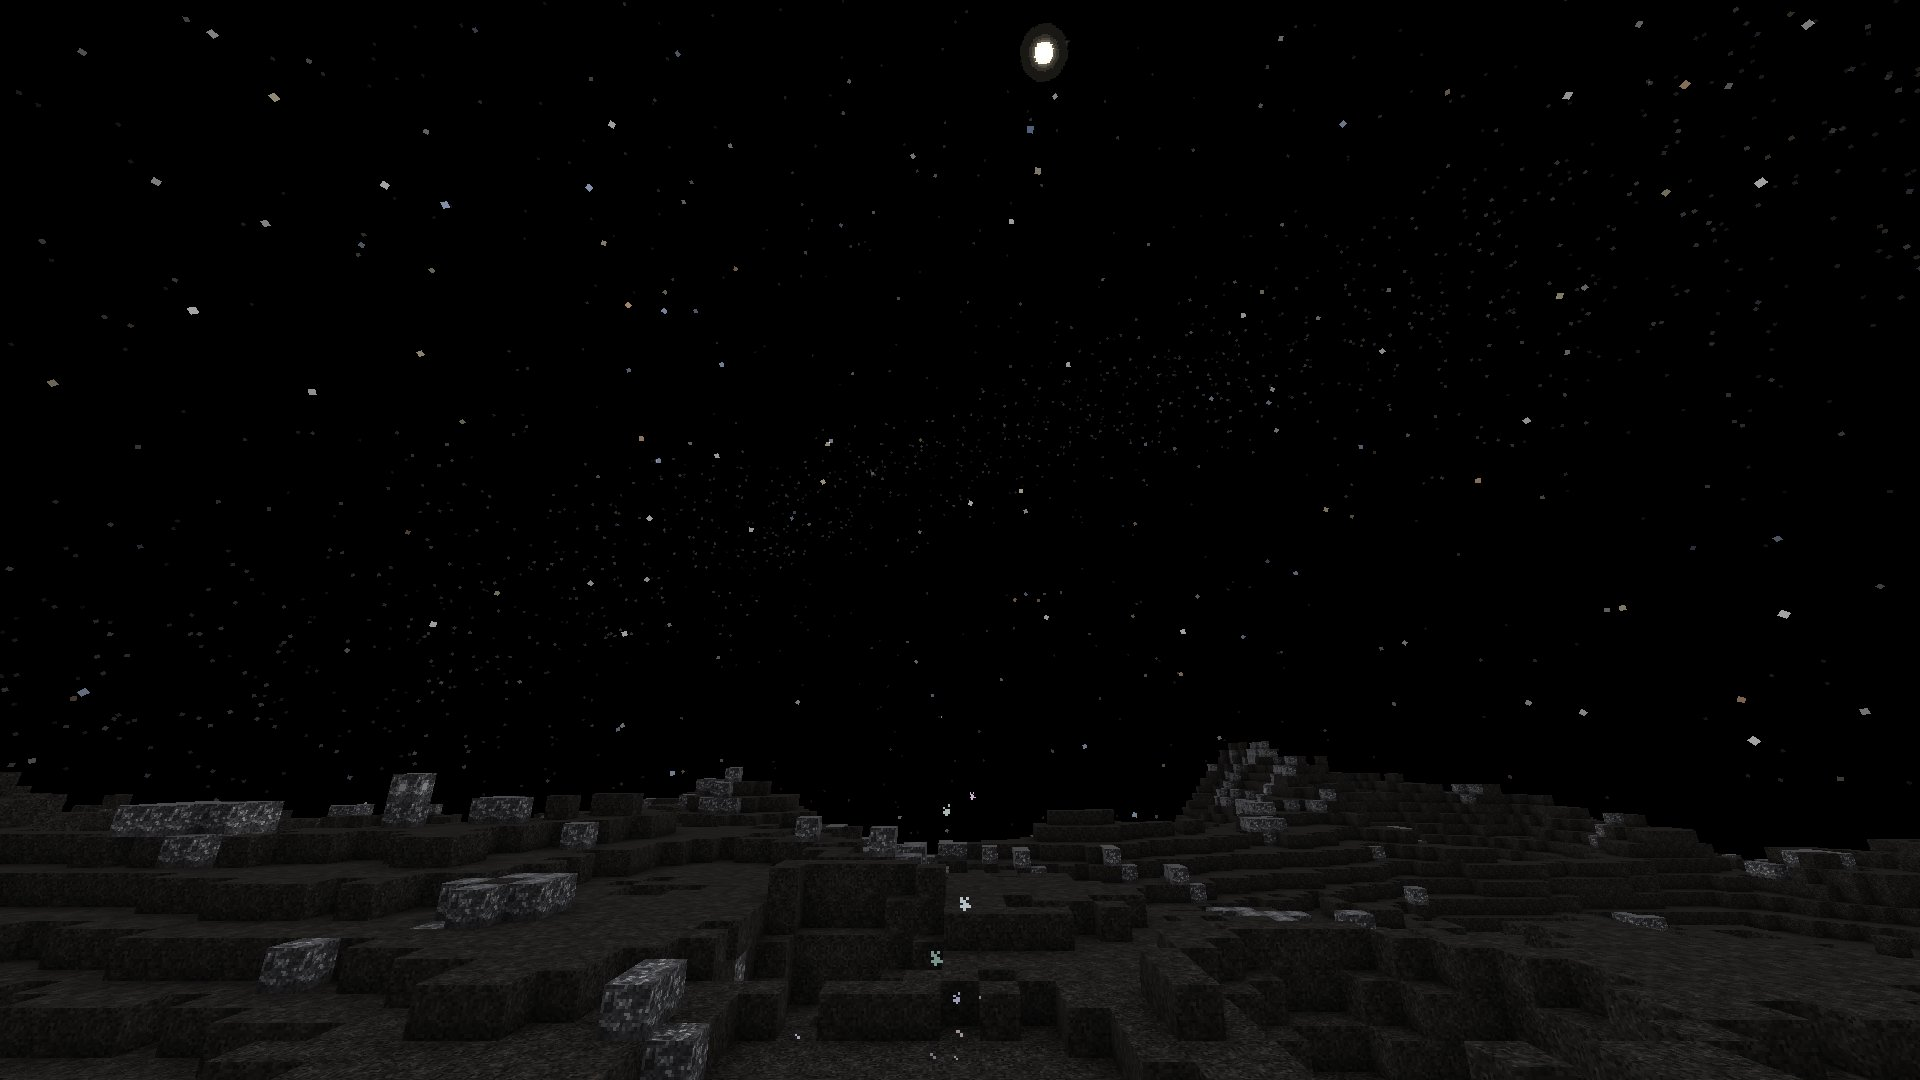
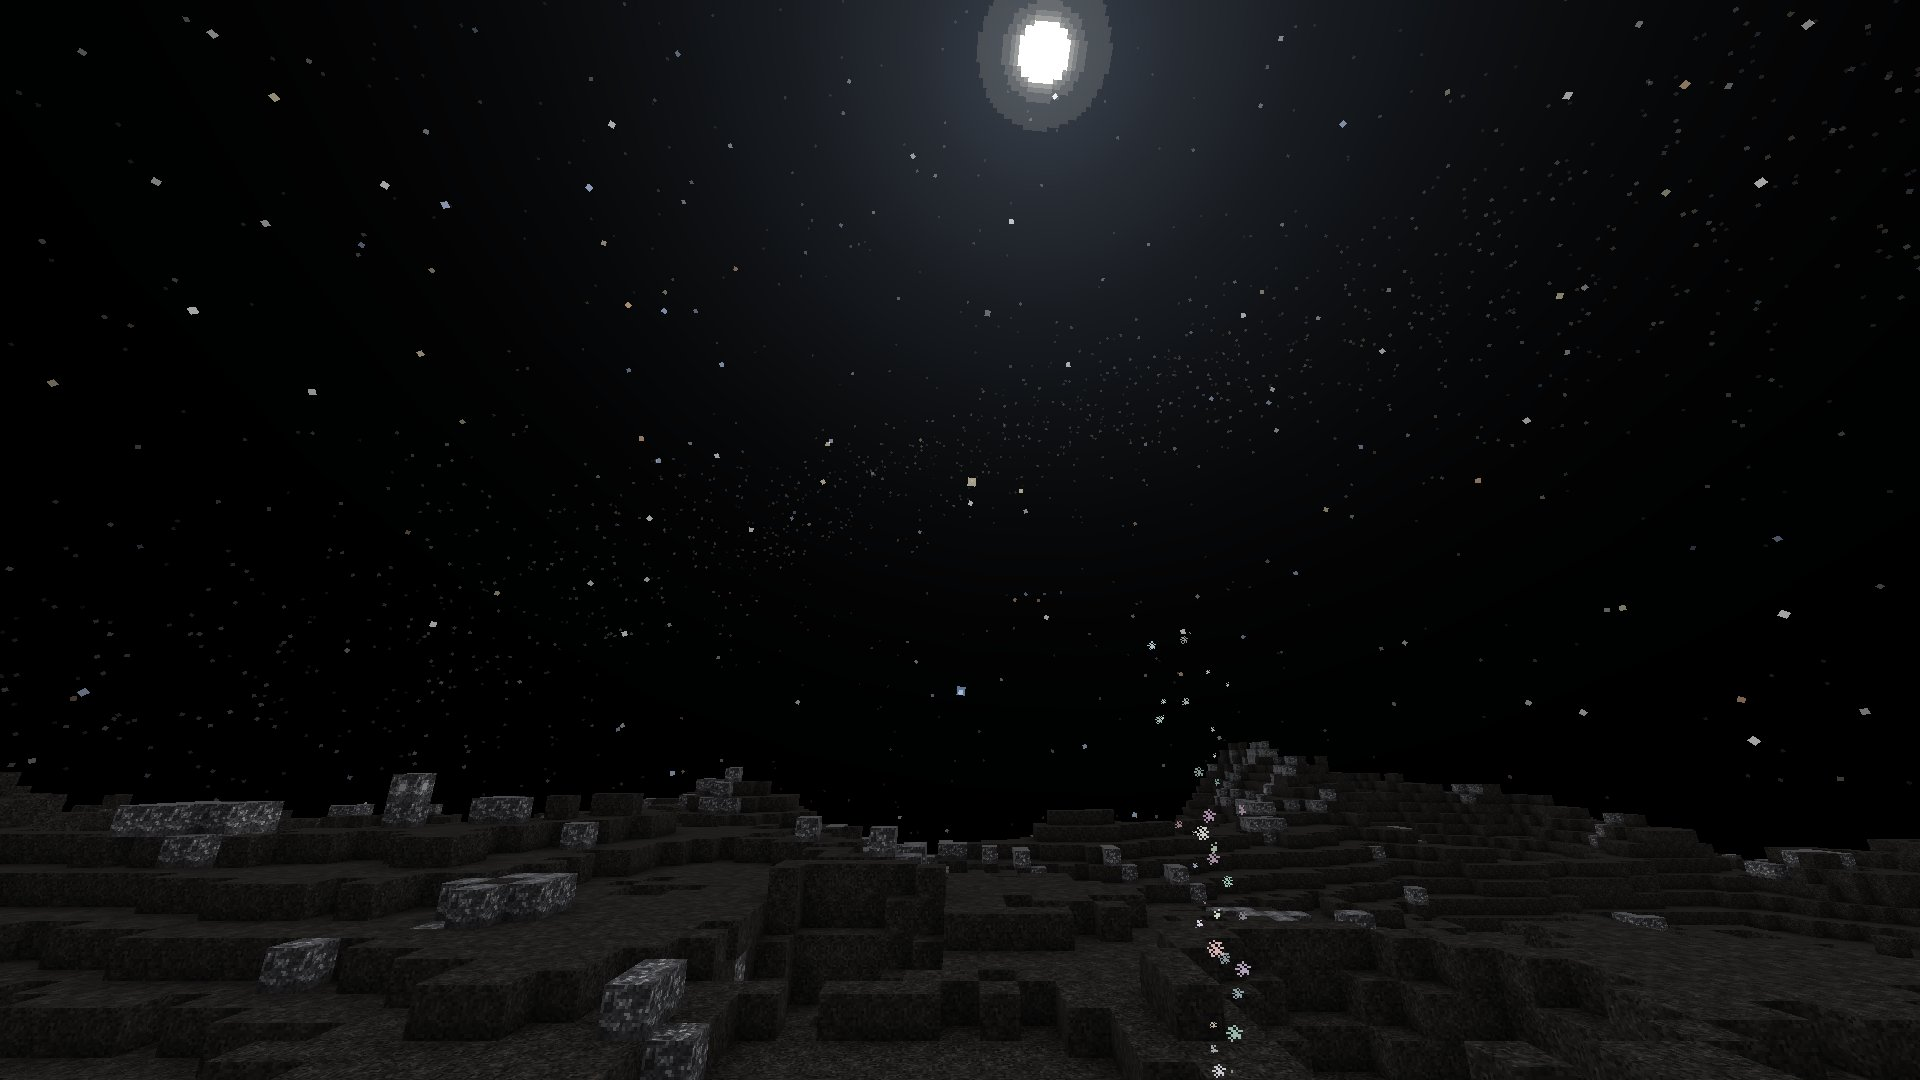
Comet jets follow the comet's real activity
- CometJetBlock asks the astro library's CometActivity for its world's comet at the current sky time (cached per level, at most every 100 ticks): dormant far from the Sun -> no jets; weak -> a jet now and then; active -> full columns; great comet -> taller, denser columns; worlds that are not a known comet keep full jets
- Comet showcases wind the sky clock on to the comet's next perihelion before the jet shot: the large Sun, the coma glow of the planet engine's comet sky and the jets in one frame (67P, Halley as a great comet)
- GameTest: strength per activity level, 67P awake at perihelion and asleep at aphelion

Changed region(s): [[0.3438, 0.0, 0.75, 0.3667]]

diff --git a/src/main/java/com/pizzaparker07/spacebreaker/content/belt/block/CometJetBlock.java b/src/main/java/com/pizzaparker07/spacebreaker/content/belt/block/CometJetBlock.java
@@ -12,7 +12,8 @@ import net.minecraft.world.level.block.state.BlockState;
 /**
  * A comet jet: a patch of ice where sunlight warms the surface enough for the ice to turn straight to gas, lifting a
  * thin column of gas and dust. Purely visual and client-side (it neither hurts nor pushes, and does nothing on the
- * server): only in sunlight, only under open sky, a few particles per tick from the blocks the client is already
+ * server): only in sunlight, only under open sky, only while the comet is awake (far from the Sun it sleeps; near it
+ * the jets grow - the astro library's activity model), a few particles per tick from the blocks the client is already
  * animating nearby, so it costs next to nothing.
  */
 public class CometJetBlock extends Block {
@@ -36,20 +37,59 @@ public class CometJetBlock extends Block {
         return sunElevation > 0.03F && columnTop <= y + 1;
     }
 
+    /**
+     * How strongly the comet this level belongs to is outgassing (astro library's activity model at the current sky
+     * time): 0 dormant (far from the Sun), 0.35 weak, 1 active, 1.6 a great comet; 1 on a world that is not a known
+     * comet. Recomputed at most every 100 ticks per level.
+     */
+    public static float strength(Level level) {
+        long tick = level.getGameTime() / 100;
+        var key = level.dimension().location();
+        Cached c = CACHE.get(key);
+        if (c == null || c.tick != tick) {
+            float v = com.pizzaparker07.spacebreaker.core.astro.smallbody.Comet.byId(key.getPath())
+                    .map(comet -> strength(com.pizzaparker07.spacebreaker.core.astro.smallbody.CometActivity.at(comet,
+                            com.pizzaparker07.spacebreaker.core.astro.BodyAdapter.simTime(level)).level()))
+                    .orElse(1F);
+            c = new Cached(tick, v);
+            CACHE.put(key, c);
+        }
+        return c.strength;
+    }
+
+    public static float strength(com.pizzaparker07.spacebreaker.core.astro.smallbody.CometActivity.Level activity) {
+        return switch (activity) {
+            case DORMANT -> 0F;
+            case WEAK -> 0.35F;
+            case ACTIVE -> 1F;
+            case GREAT -> 1.6F;
+        };
+    }
+
+    private record Cached(long tick, float strength) {
+    }
+
+    private static final java.util.Map<net.minecraft.resources.ResourceLocation, Cached> CACHE = new java.util.concurrent.ConcurrentHashMap<>();
+
     @Override
     public void animateTick(BlockState state, Level level, BlockPos pos, RandomSource random) {
         if (!active(level, pos)) {
             return;
         }
+        float strength = strength(level);
+        if (strength <= 0 || random.nextFloat() > Math.min(1F, strength)) {
+            return;
+        }
+        int specks = Math.round(40 * Math.max(1F, strength));
         // the client animates a given block only now and then, so each call draws a whole thin column at once: small
         // grey-white specks (1-2 pixels) rising from the vent and fanning out slightly with height, fading as they go
-        for (int i = 0; i < 40; i++) {
-            double h = 1.05 + i * 0.18 + random.nextDouble() * 0.3;
+        for (int i = 0; i < specks; i++) {
+            double h = 1.05 + i * 0.18 * 40 / specks * Math.max(1F, strength) + random.nextDouble() * 0.3;
             double spread = 0.05 + i * 0.012;
             double x = pos.getX() + 0.5 + (random.nextDouble() - 0.5) * spread * 2;
             double z = pos.getZ() + 0.5 + (random.nextDouble() - 0.5) * spread * 2;
             float grey = 0.86F + random.nextFloat() * 0.14F;
-            float size = 0.95F - i * 0.011F;
+            float size = Math.max(0.4F, 0.95F - i * 0.011F * 40 / specks);
             level.addParticle(new DustParticleOptions(new Vector3f(grey, grey, grey * 1.02F), size), x, pos.getY() + h, z,
                     (x - pos.getX() - 0.5) * 2, 2.0, (z - pos.getZ() - 0.5) * 2);
         }

diff --git a/src/testmod/java/com/pizzaparker07/spacebreaker/testmod/outer/CometTests.java b/src/testmod/java/com/pizzaparker07/spacebreaker/testmod/outer/CometTests.java
@@ -68,4 +68,23 @@ public final class CometTests {
         }
         helper.succeed();
     }
+
+    @GameTest(template = WorldTests.EMPTY)
+    public static void cometJetsFollowTheCometsActivity(GameTestHelper helper) {
+        helper.assertTrue(CometJetBlock.strength(com.pizzaparker07.spacebreaker.core.astro.smallbody.CometActivity.Level.DORMANT) == 0, "asleep far from the Sun");
+        helper.assertTrue(CometJetBlock.strength(com.pizzaparker07.spacebreaker.core.astro.smallbody.CometActivity.Level.WEAK) > 0
+                && CometJetBlock.strength(com.pizzaparker07.spacebreaker.core.astro.smallbody.CometActivity.Level.WEAK)
+                < CometJetBlock.strength(com.pizzaparker07.spacebreaker.core.astro.smallbody.CometActivity.Level.ACTIVE), "weak, then active");
+        helper.assertTrue(CometJetBlock.strength(com.pizzaparker07.spacebreaker.core.astro.smallbody.CometActivity.Level.GREAT)
+                > CometJetBlock.strength(com.pizzaparker07.spacebreaker.core.astro.smallbody.CometActivity.Level.ACTIVE), "a great comet blows hardest");
+        // along a real orbit: at perihelion 67P is awake, at aphelion asleep
+        var c = com.pizzaparker07.spacebreaker.core.astro.smallbody.Comet.CHURYUMOV_GERASIMENKO;
+        double peri = c.nextPerihelion(0);
+        var near = com.pizzaparker07.spacebreaker.core.astro.smallbody.CometActivity.at(c, peri).level();
+        var far = com.pizzaparker07.spacebreaker.core.astro.smallbody.CometActivity.at(c, peri + c.periodSeconds() / 2).level();
+        helper.assertTrue(CometJetBlock.strength(near) >= 1 && CometJetBlock.strength(far) == 0, "jets at perihelion (" + near + "), none at aphelion (" + far + ")");
+        // and in the world right now (sky time): logged so a showcase can be read against it
+        helper.assertTrue(CometJetBlock.strength(helper.getLevel()) == 1F, "a world that is not a comet keeps full jets");
+        helper.succeed();
+    }
 }

diff --git a/src/testmod/java/com/pizzaparker07/spacebreaker/testmod/showcase/TinyMoonScenario.java b/src/testmod/java/com/pizzaparker07/spacebreaker/testmod/showcase/TinyMoonScenario.java
@@ -47,7 +47,14 @@ final class TinyMoonScenario extends OuterShowcase {
                         com.pizzaparker07.spacebreaker.content.belt.Comets.JET.get().defaultBlockState(), 3);
             }
             double y = Math.max(ground(level, gx - 7, gz), ground(level, gx, gz)) + 5.5;
-            shot("03_comet_jets", gx - 6.5, y, gz + 0.5, MoonScenario.yaw(7, 0), -18F, 160, at(0.12), null);
+            // jets follow the comet's activity: wind the sky clock on to the comet's next perihelion so it is awake
+            var comet = com.pizzaparker07.spacebreaker.core.astro.smallbody.Comet.byId(world.name).orElseThrow();
+            shot("03_comet_jets", gx - 6.5, y, gz + 0.5, MoonScenario.yaw(7, 0), -18F, 200, p -> {
+                double peri = comet.nextPerihelion(com.pizzaparker07.spacebreaker.core.astro.BodyAdapter.simTime(p.serverLevel()));
+                p.server.getWorldData().overworldData().setGameTime(com.pizzaparker07.spacebreaker.core.astro.GameClock.ticks(peri,
+                        com.pizzaparker07.spacebreaker.core.astro.BodyAdapter.timeScale()));
+                at(0.12).accept(p);
+            }, null);
         }
         lander(level, LanderPiece.Variant.valueOf(world.name.toUpperCase(Locale.ROOT)), "04_crashed_lander", 0.12);
     }

diff --git a/docs/CONTENT.md b/docs/CONTENT.md
@@ -236,7 +236,7 @@ Her içerik paketi gerçek istemcide vitrin dünyasında fotoğraflanır; onayda
 ### Kuyruklu yıldızlar (ortak `TinyWorld` paketi)
 | Durum | İçerik | Not |
 |---|---|---|
-| 🎨 | 67P/Çuryumov-Gerasimenko `spacebreaker:churyumov_gerasimenko` | ~4 km'lik iki loblu çekirdek; kömürden koyu toz kabuğunun altında buz; güneş tepedeyken açık gökyüzündeki jet ağızlarından ince gaz/toz sütunları yükselir (yalnız görsel, istemci tarafı: hasar ya da itme yok, FPS'e yük bindirmez); buzu yakıt için suya eritilebilir |
+| 🎨 | 67P/Çuryumov-Gerasimenko `spacebreaker:churyumov_gerasimenko` | ~4 km'lik iki loblu çekirdek; kömürden koyu toz kabuğunun altında buz; güneş ufkun üstündeyken açık gökyüzündeki jet ağızlarından ince gaz/toz sütunları yükselir; yoğunluk kuyruklu yıldızın gerçek etkinliğini izler (astro modeli: Güneş'ten uzakta uykuda → jet yok, zayıf → seyrek, etkin → tam, büyük kuyruklu yıldız → en yoğun; yalnız görsel, istemci tarafı: hasar ya da itme yok, FPS'e yük bindirmez); buzu yakıt için suya eritilebilir |
 | 🎨 | Encke `spacebreaker:encke` | ~5 km'lik küçük, yaşlı, neredeyse tükenmiş çekirdek; 3,3 yılda bir Güneş'e yaklaşan kısa yörünge; tozlu, tümsekli yüzey, seyrek jetler; buzu yakıt için suya eritilebilir |
 | 🎨 | Halley `spacebreaker:halley` | en ünlü kuyruklu yıldız: ~15 km'lik uzun, kömürden kara çekirdek, güçlü jetler; buzu yakıt için suya eritilebilir |
 | 🎨 | Bloklar | Kuyruklu Yıldız Tozu (kalıcı ayak izi), Kuyruklu Yıldız Buzu, Kuyruklu Yıldız Jeti (tüm kuyruklu yıldızlarda ortak), Encke Tozu, Encke Buzu, Halley Tozu, Halley Buzu |
